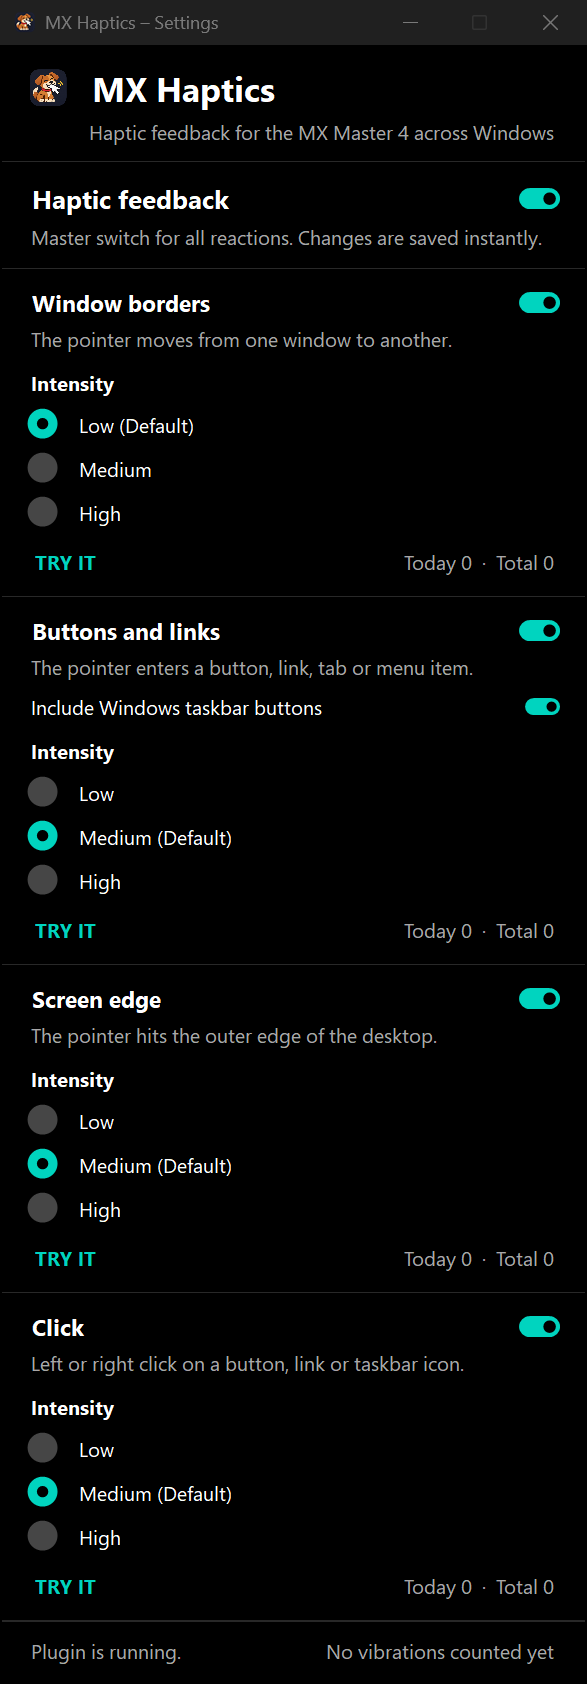
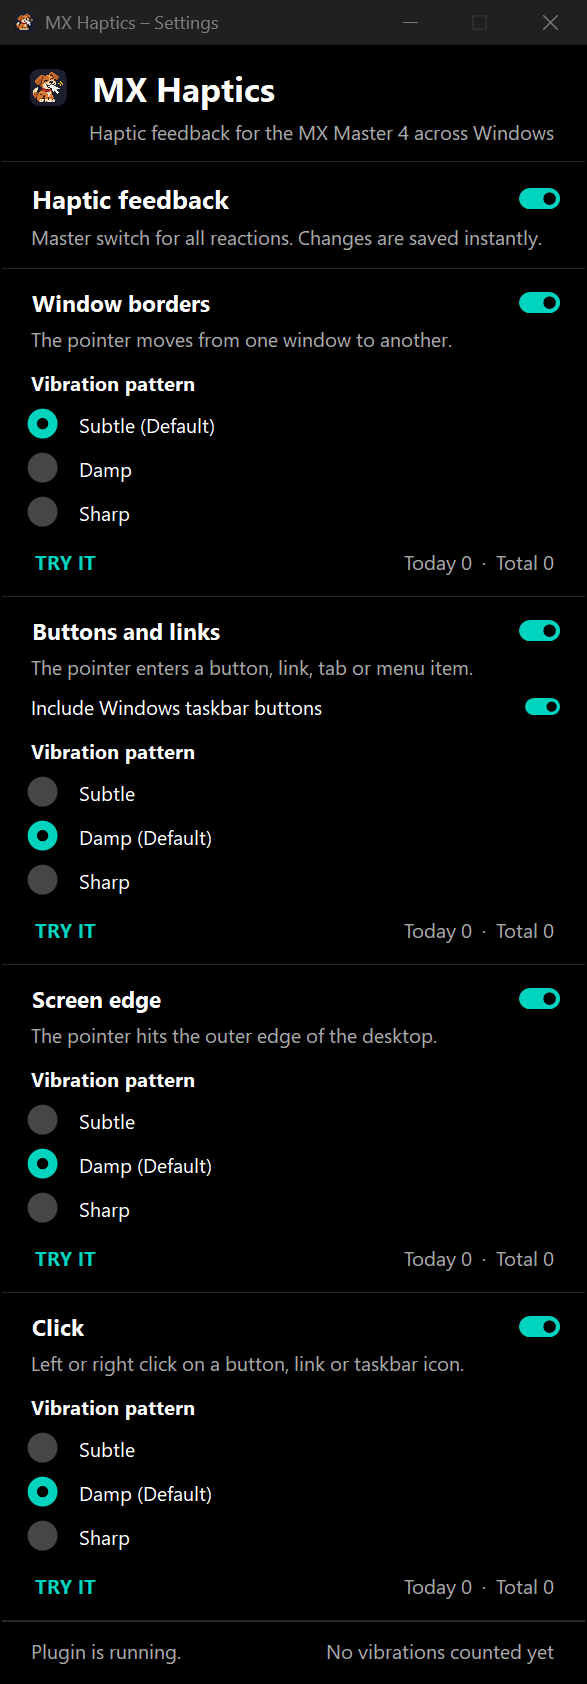
Popisky vzorů vibrace: Subtle / Damp / Sharp místo Low / Medium / High

diff --git a/settings/SettingsForm.cs b/settings/SettingsForm.cs
@@ -27,7 +27,8 @@ namespace MxHaptics.Settings
             (Reactions.Click, "Click", "Left or right click on a button, link or taskbar icon."),
         };
 
-        private static readonly String[] StrengthLabels = { "Low", "Medium", "High" };
+        // vzory z eventMapping.yaml (subtle_collision, damp_collision, sharp_collision); sílu motoru řídí Options+
+        private static readonly String[] StrengthLabels = { "Subtle", "Damp", "Sharp" };
 
         private static readonly CultureInfo English = CultureInfo.GetCultureInfo("en-US");
 
@@ -211,8 +212,8 @@ namespace MxHaptics.Settings
                 section.Controls.Add(this._taskbarToggle, 1, r++);
             }
 
-            // síla jako „Haptic intensity“ v Options+: tučný nadpis a svislý seznam s „(Default)“
-            var intensity = new Label { Text = "Intensity", AutoSize = true, Font = new Font(this.Font, FontStyle.Bold), Margin = new Padding(0, 16, 0, 6) };
+            // vzor jako „Haptic intensity“ v Options+: tučný nadpis a svislý seznam s „(Default)“
+            var intensity = new Label { Text = "Vibration pattern", AutoSize = true, Font = new Font(this.Font, FontStyle.Bold), Margin = new Padding(0, 16, 0, 6) };
             section.Controls.Add(intensity, 0, r++);
             var strengths = new FlowLayoutPanel { AutoSize = true, FlowDirection = FlowDirection.TopDown, WrapContents = false, Margin = Padding.Empty };
             for (var i = 0; i < StrengthLabels.Length; i++)
@@ -222,7 +223,7 @@ namespace MxHaptics.Settings
                 {
                     Text = strength == defaultStrength ? $"{StrengthLabels[i]} (Default)" : StrengthLabels[i],
                     Checked = rs.Strength == strength,
-                    AccessibleDescription = $"{title} intensity",
+                    AccessibleDescription = $"{title} vibration pattern",
                 };
                 radio.CheckedChanged += (_, _) =>
                 {

diff --git a/README.md b/README.md
@@ -4,12 +4,12 @@
 
 A Logi Options+ plugin (Logi Actions SDK) that gives the **MX Master 4** haptic feedback across Windows:
 
-| Reaction | When | Default intensity |
+| Reaction | When | Default pattern |
 | --- | --- | --- |
-| Window borders (`windowBorder`) | the pointer moves from one window to another | low |
-| Buttons and links (`controlHover`) | the pointer enters a button, link, tab or menu item (MSAA), or a Windows 11 taskbar button (UI Automation) | medium |
-| Screen edge (`screenEdge`) | the pointer hits the outer edge of the desktop (edges between monitors don't count) | medium |
-| Click (`click`) | left or right click on an element that *Buttons and links* reacts to (clicks into text or on the desktop don't vibrate) | medium |
+| Window borders (`windowBorder`) | the pointer moves from one window to another | subtle |
+| Buttons and links (`controlHover`) | the pointer enters a button, link, tab or menu item (MSAA), or a Windows 11 taskbar button (UI Automation) | damp |
+| Screen edge (`screenEdge`) | the pointer hits the outer edge of the desktop (edges between monitors don't count) | damp |
+| Click (`click`) | left or right click on an element that *Buttons and links* reacts to (clicks into text or on the desktop don't vibrate) | damp |
 
 Windows only. The plugin runs inside Logi Plugin Service; its settings live in a separate window.
 
@@ -55,8 +55,8 @@ Only one window runs at a time; starting it again brings the open window to the 
 - turn all haptics on or off (*Haptic feedback*),
 - turn each reaction on or off,
 - for *Buttons and links*, include or skip Windows taskbar buttons (*Include Windows taskbar buttons*),
-- pick the intensity of each reaction: low (`subtle_collision`), medium (`damp_collision`), high (`sharp_collision`);
-  picking one vibrates right away,
+- pick the vibration pattern of each reaction: *Subtle* (`subtle_collision`), *Damp* (`damp_collision`),
+  *Sharp* (`sharp_collision`); picking one vibrates right away,
 - feel a reaction with *Try it* (works even when the reaction is off).
 
 Each reaction shows how many vibrations it sent today and in total (*Try it* doesn't count). The window refreshes the numbers every 2 s.
@@ -66,13 +66,14 @@ Changes are saved instantly to `%LOCALAPPDATA%\MxHaptics\settings.json` and the 
 The window follows the Windows light or dark mode and is styled after the Logi Options+ settings panel. When the plugin isn't
 running, the footer says so in orange and the settings apply once it starts.
 
-### Why three intensities when Options+ has four
+### Vibration pattern vs. Haptic intensity
 
 *Haptic intensity* in Options+ (Subtle / Low / Medium / High) sets how strongly the mouse motor vibrates, for everything.
 The SDK doesn't let a plugin choose a strength, only which vibration pattern to play. So each reaction has three events
-(`windowBorder_weak`, `_medium`, `_strong`) mapped to patterns of increasing sharpness in
+(`windowBorder_weak`, `_medium`, `_strong`) mapped to the patterns *Subtle*, *Damp* and *Sharp* in
 [`eventMapping.yaml`](src/package/events/extra/eventMapping.yaml), and the plugin raises the one you picked.
-The Options+ intensity then scales all of them.
+The Options+ intensity then scales all of them. The event names and the `weak` / `medium` / `strong` values in
+`settings.json` are kept from earlier versions.
 
 ### Other controls
 
@@ -128,7 +129,7 @@ gh release create v<version> ./MxHaptics_<version>.lplug4 --title "MX Haptics <v
   found a clickable element under the pointer. The vibration arrives a little after the physical click (it travels through
   Logi Plugin Service to the mouse).
 - The settings window talks to the plugin over a local named pipe `MxHaptics` (current user only): `reload` after saving,
-  `test <reaction> <intensity>` for *Try it* and `stats` for the vibration counts.
+  `test <reaction> <weak|medium|strong>` for *Try it* and `stats` for the vibration counts.
 - The plugin keeps the counts in memory and saves them every minute (and on exit) to `%LOCALAPPDATA%\MxHaptics\stats.json`
   (in total and per day). When the plugin isn't running, the window reads that file.
 - Apps that don't expose accessibility information (some games, some Electron apps) won't vibrate on their buttons.

diff --git a/AGENTS.md b/AGENTS.md
@@ -46,7 +46,7 @@ Logi Plugin Service. Nastavení má samostatné WinForms okno (`settings/`), iko
 - Události mají tvar `<reakce>_<síla>` (`windowBorder_weak` …, viz `Reactions.EventName`). Všech 12 kombinací musí být
   v `DefaultEventSource.yaml` i v `eventMapping.yaml`. Novou reakci přidej do `Reactions`, `HapticsSettings`, obou YAML a do řádků okna.
 - Síla: `weak` = `subtle_collision`, `medium` = `damp_collision`, `strong` = `sharp_collision`. SDK nemá parametr síly, proto varianty událostí.
-- Texty UI, README, událostí a akcí jsou anglicky (okno: Low / Medium / High). AGENTS.md a komentáře v kódu zůstávají česky.
+- Texty UI, README, událostí a akcí jsou anglicky (okno: vzor vibrace Subtle / Damp / Sharp; v JSON a názvech událostí zůstává weak / medium / strong). AGENTS.md a komentáře v kódu zůstávají česky.
   Okno má pevnou šířku, výšku nejvýš 85 % obrazovky (obsah se posouvá, patička stojí); v režimu `--screenshot` se kreslí celé.
 - Povolené vzory vibrací: `sharp_state_change`, `damp_state_change`, `sharp_collision`, `damp_collision`, `subtle_collision`,
   `happy_alert`, `angry_alert`, `completed`, `square`, `wave`, `firework`, `mad`, `knock`, `jingle`, `ringing`.
@@ -62,7 +62,7 @@ Logi Plugin Service. Nastavení má samostatné WinForms okno (`settings/`), iko
   Při nové ikoně nahraď obojí a pusť `pwsh tools/Convert-IconToIco.ps1`.
 - Po změně vzhledu okna přegeneruj screenshoty: `build\settings\MxHapticsSettings.exe --screenshot docs\screenshots\settings-<dark|light>.png --theme <dark|light>`.
 - Okno nastavení napodobuje panel „Modify settings“ v Logi Options+: sekce oddělené čarou, nadpis + `ToggleSwitch` vpravo,
-  síla jako svislý seznam `LogiRadio` pod tučným „Intensity“ s „(Default)“ u výchozí, „Try it“ jako `LinkButton` (akcent, velká písmena). Barvy ber jen z `Theme.Current`, ne `SystemColors`.
+  síla jako svislý seznam `LogiRadio` pod tučným „Vibration pattern“ (ne „Intensity“: sílu motoru řídí Options+) s „(Default)“ u výchozí, „Try it“ jako `LinkButton` (akcent, velká písmena). Barvy ber jen z `Theme.Current`, ne `SystemColors`.
   `LinkButton` dědí z `Control`, ne z `Button`: ten si v tmavém režimu WinForms kreslí sám a vlastní `OnPaint` ignoruje.
   Tenhle režim kreslí výchozí nastavení a nic neukládá. Screenshoty okna nedělej snímáním obrazovky, uživatel s oknem může zrovna pracovat.
 - Release: postup v README („Vydání verze“), balíček `.lplug4` přes `logiplugintool pack` + `verify`, nahrát přes `gh release create`.
